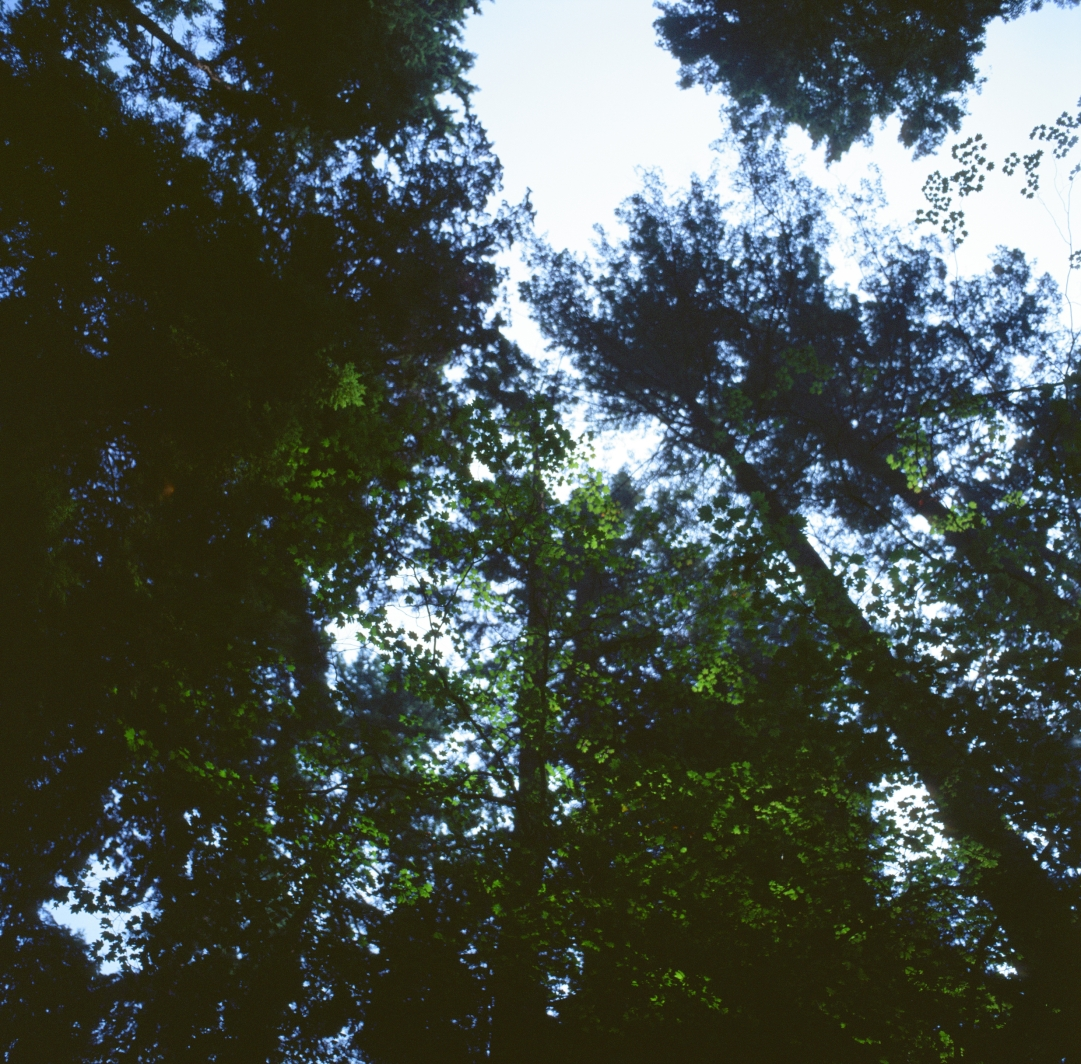
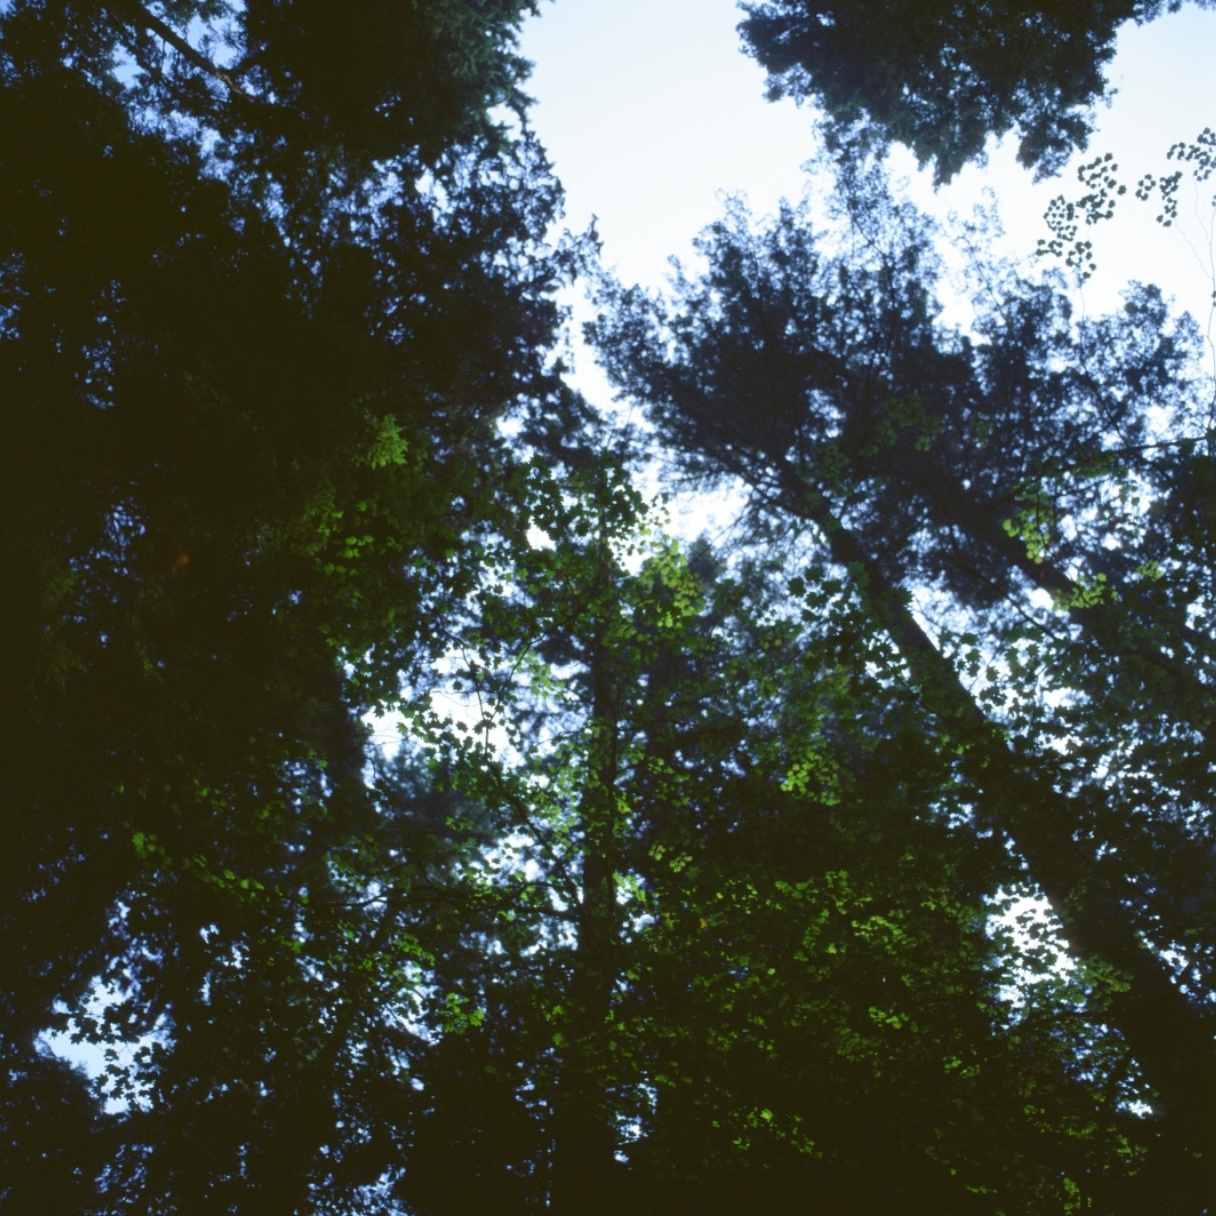
Update

diff --git a/photography.html b/photography.html
@@ -61,15 +61,33 @@ These photographs were taken with a Mamiya C330. Colour photos are Kodak Ektachr
 <h3>Gasp&#233;sie</h3>
 
 <div style="border: none !important; overflow-y: hidden; width: 1000px; margin:0 auto;">
+  <a href="media/photography/gaspesie/gaspesie0_highres.jpg" target="_blank">
     <span style="float:left;width:25%;height:20em;margin-top:0em;margin-bottom:0em;margin-left:1em;margin-right:0em"><img src="media/photography/gaspesie/gaspesie0.png" style="max-width:100%;max-height:100%"/></span>
+  </a>
+  <a href="media/photography/gaspesie/gaspesie1_highres.jpg" target="_blank">
     <span style="float:left;width:25%;height:20em;margin-top:0em;margin-bottom:0em;margin-left:1em;margin-right:0em"><img src="media/photography/gaspesie/gaspesie1.png" style="max-width:100%;max-height:100%"/></span>
+  </a>
+  <a href="media/photography/gaspesie/gaspesie2_highres.jpg" target="_blank">
     <span style="float:left;width:25%;height:20em;margin-top:0em;margin-bottom:0em;margin-left:1em;margin-right:0em"><img src="media/photography/gaspesie/gaspesie2.png" style="max-width:100%;max-height:100%"/></span>
+  </a>
+  <a href="media/photography/gaspesie/gaspesie3_highres.jpg" target="_blank">
     <span style="float:left;width:25%;height:20em;margin-top:0em;margin-bottom:0em;margin-left:1em;margin-right:0em"><img src="media/photography/gaspesie/gaspesie3.png" style="max-width:100%;max-height:100%"/></span>
+  </a>
+  <a href="media/photography/gaspesie/gaspesie4_highres.jpg" target="_blank">
     <span style="float:left;width:25%;height:20em;margin-top:0em;margin-bottom:0em;margin-left:1em;margin-right:0em"><img src="media/photography/gaspesie/gaspesie4.png" style="max-width:100%;max-height:100%"/></span>
+  </a>
+  <a href="media/photography/gaspesie/gaspesie5_highres.jpg" target="_blank">
     <span style="float:left;width:25%;height:20em;margin-top:0em;margin-bottom:0em;margin-left:1em;margin-right:0em"><img src="media/photography/gaspesie/gaspesie5.png" style="max-width:100%;max-height:100%"/></span>
+  </a>
+  <a href="media/photography/gaspesie/gaspesie6_highres.jpg" target="_blank">
     <span style="float:left;width:25%;height:20em;margin-top:0em;margin-bottom:0em;margin-left:1em;margin-right:0em"><img src="media/photography/gaspesie/gaspesie6.png" style="max-width:100%;max-height:100%"/></span>
+  </a>
+  <a href="media/photography/gaspesie/gaspesie7_highres.jpg" target="_blank">
     <span style="float:left;width:25%;height:20em;margin-top:0em;margin-bottom:0em;margin-left:1em;margin-right:0em"><img src="media/photography/gaspesie/gaspesie7.png" style="max-width:100%;max-height:100%"/></span>
+  </a>
+  <a href="media/photography/gaspesie/gaspesie8_highres.jpg" target="_blank">
     <span style="float:left;width:25%;height:20em;margin-top:0em;margin-bottom:0em;margin-left:1em;margin-right:0em"><img src="media/photography/gaspesie/gaspesie8.png" style="max-width:100%;max-height:100%"/></span>
+  </a>
 </div>
 
 <h3>Qu&#233;bec</h3>
